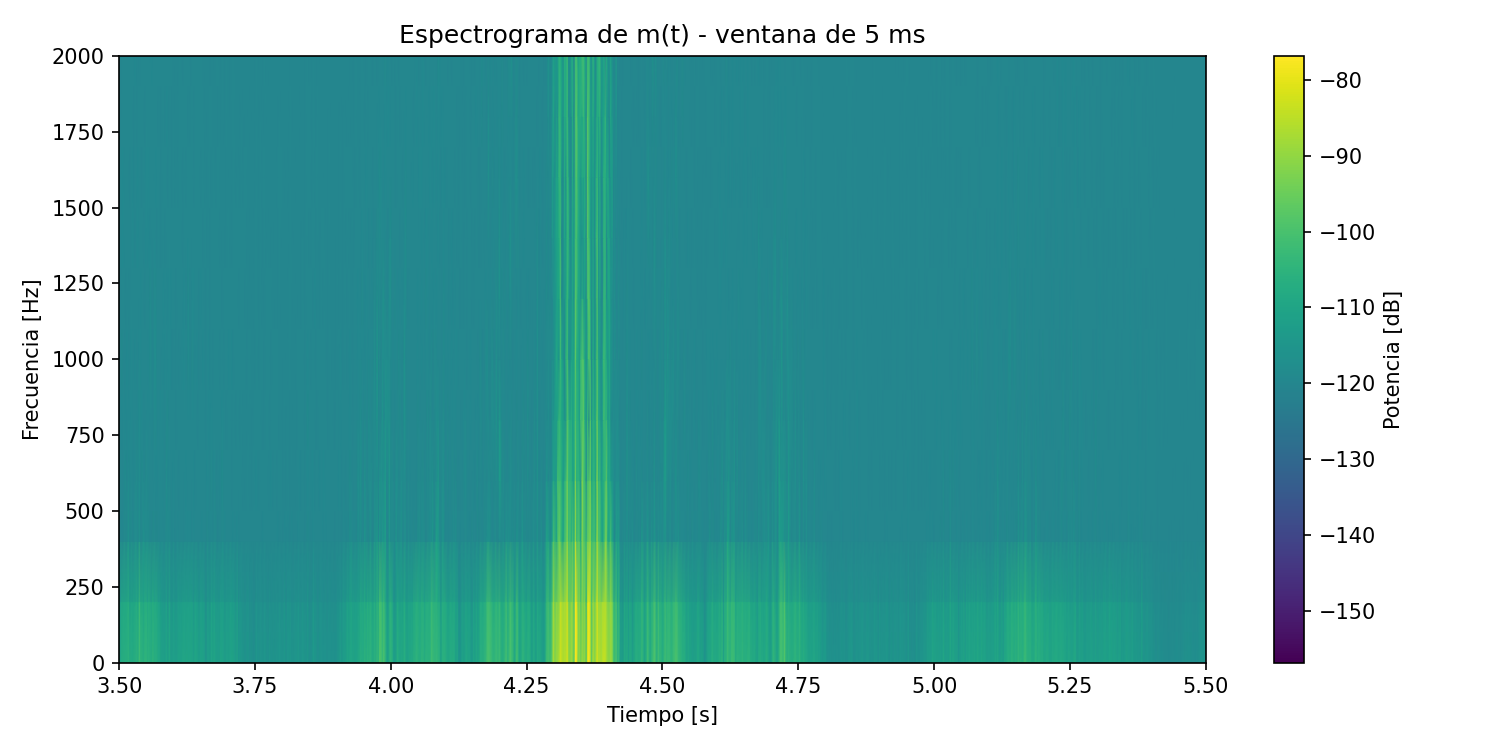
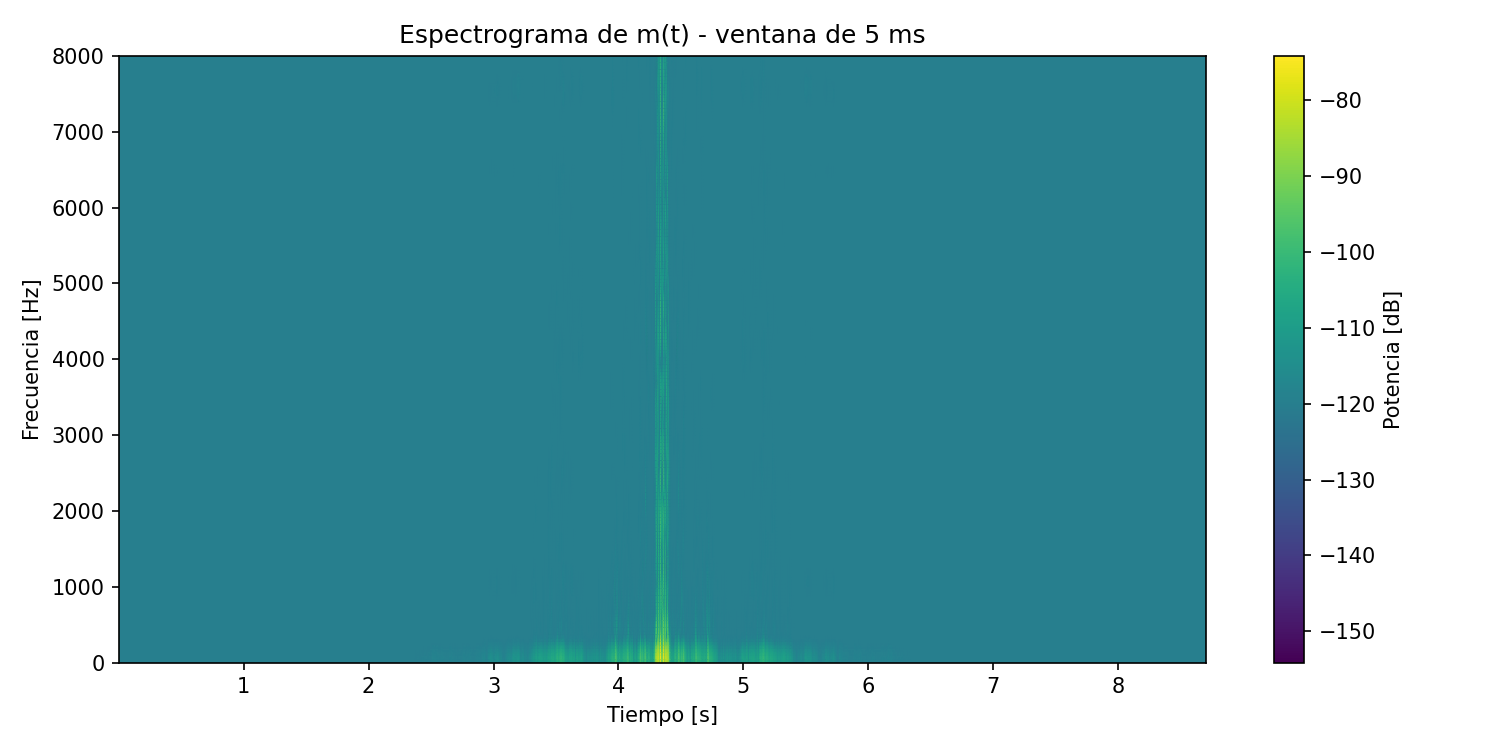
terminado ejc 2

diff --git a/tp2/ejc2/ejc2.py b/tp2/ejc2/ejc2.py
@@ -197,7 +197,7 @@ def ejc2_4(mod_fft):
         graficar_espectrograma(f, t, S,
                                        f"Espectrograma de s(t) - ventana de {v} ms",
                                        f"img/4/espectrograma_s_{v}ms.png",
-                                       fmax=8500, fmin=7500)
+                                       fmax=6500, fmin=9500, t_min=4.3, t_max=4.4)
     return s 
 
 def ejc2_5(s):
@@ -241,7 +241,6 @@ def main():
     #ejercicio 4: Generar la señal modulada s(t) con fc = 8 kHz y µ = 0,8. Graficar su espectrograma con las dos ventanas anteriores
     s = ejc2_4(modulo_normalizado_fft) 
 
-    ejc2_5(s)
-
+    #ejc2_5(s)
 if __name__ == "__main__":
     main()
